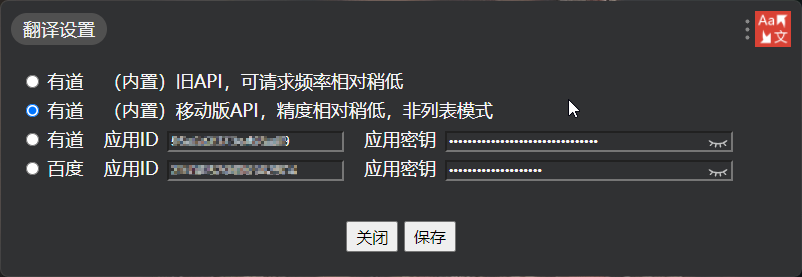
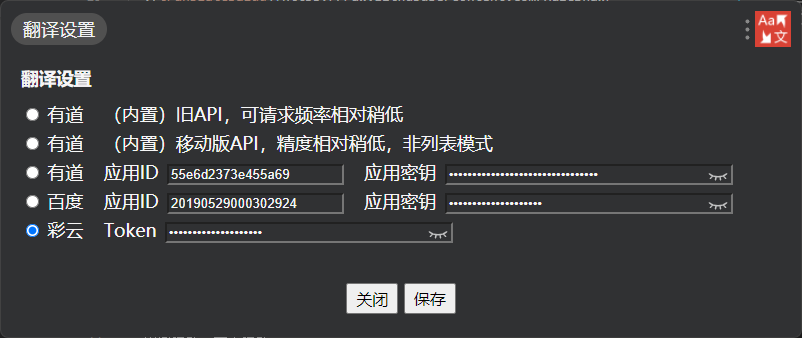
Update readme

diff --git a/README.md b/README.md
@@ -53,24 +53,41 @@ uTools 插件 - 翻译
 
 ## API
 
-- 有道词典 http://fanyi.youdao.com
+- 有道词典
+
+  http://fanyi.youdao.com
 
   官方提示此版本API已经停用，但经测试现还能使用。
+
   不过调用频率不能太高，否则容易暂时被封禁。
 
-- 有道词典 https://m.youdao.com
+- 有道词典
+
+  https://m.youdao.com
 
   属于移动端网页API，精准度不是非常高。
 
-- 有道翻译 http://openapi.youdao.com/api
+- 有道翻译
+
+  http://openapi.youdao.com/api
 
   需要到[有道智云官网](https://ai.youdao.com/doc.s)申请获取应用ID和应用密钥。
 
-- 百度翻译 https://fanyi-api.baidu.com/api/trans/vip/translate
+- 百度翻译
+
+  https://fanyi-api.baidu.com/api/trans/vip/translate
 
   翻译内容较少，仅有基本翻译。
 
-  需要到[百度翻译开放平台](http://api.fanyi.baidu.com/)申请获取应用ID和应用密钥。
+  需要到[百度翻译开放平台](http://api.fanyi.baidu.com)申请获取应用ID和应用密钥。
+
+- 彩云小译
+
+  http://api.interpreter.caiyunai.com/v1/translator
+
+  翻译内容较少，仅有基本翻译。
+
+  需要到[彩云科技](https://fanyi.caiyunapp.com/#/api)申请获取应用Token。
 
 ## Reference
 
